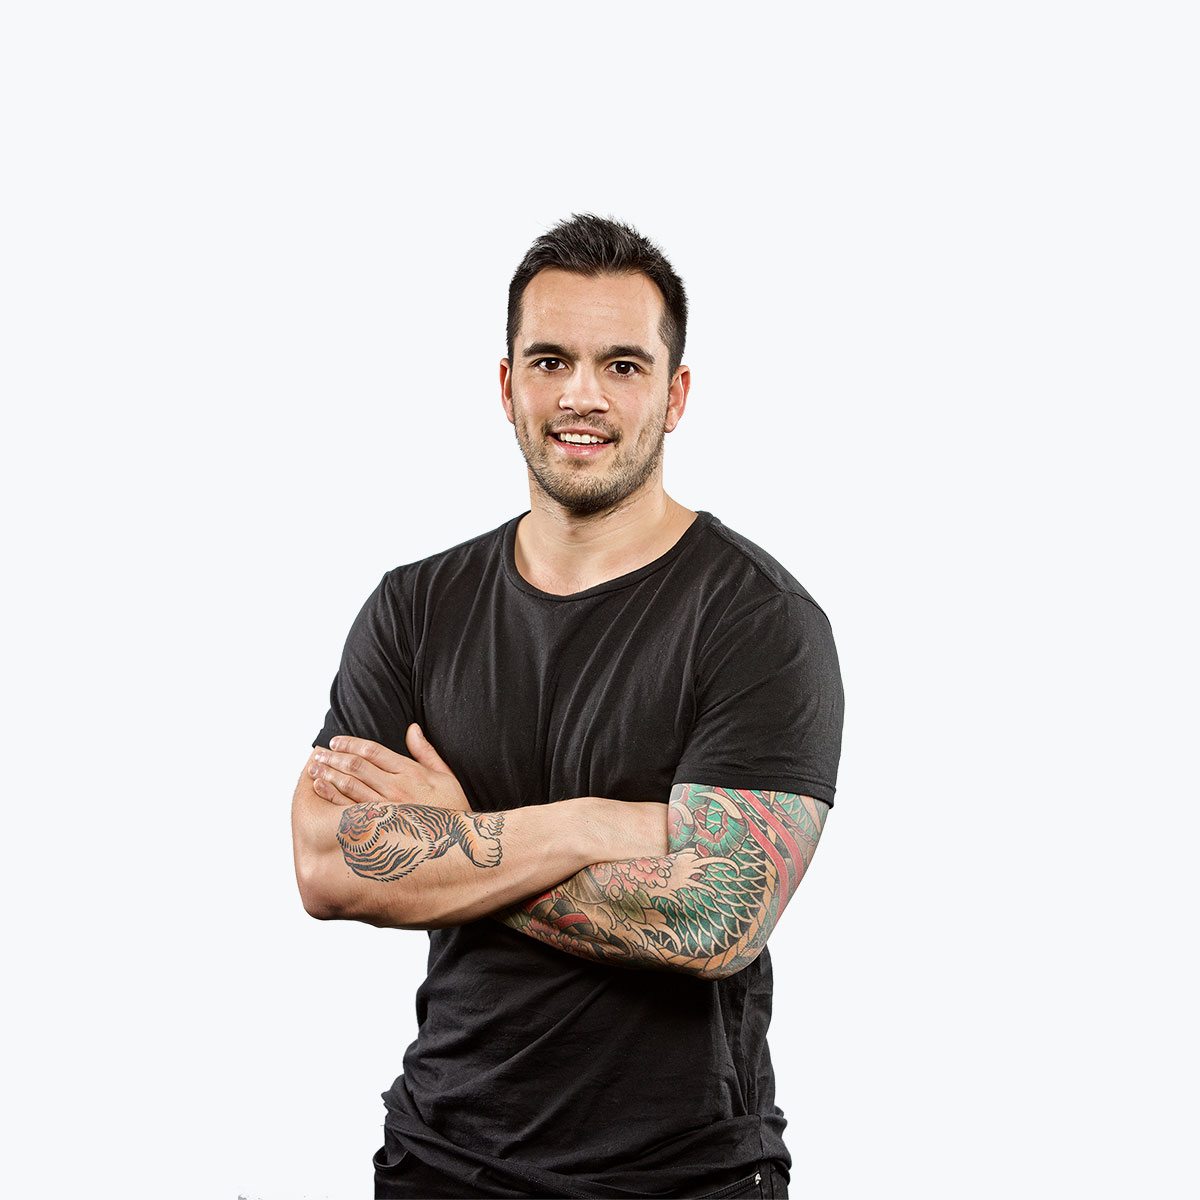
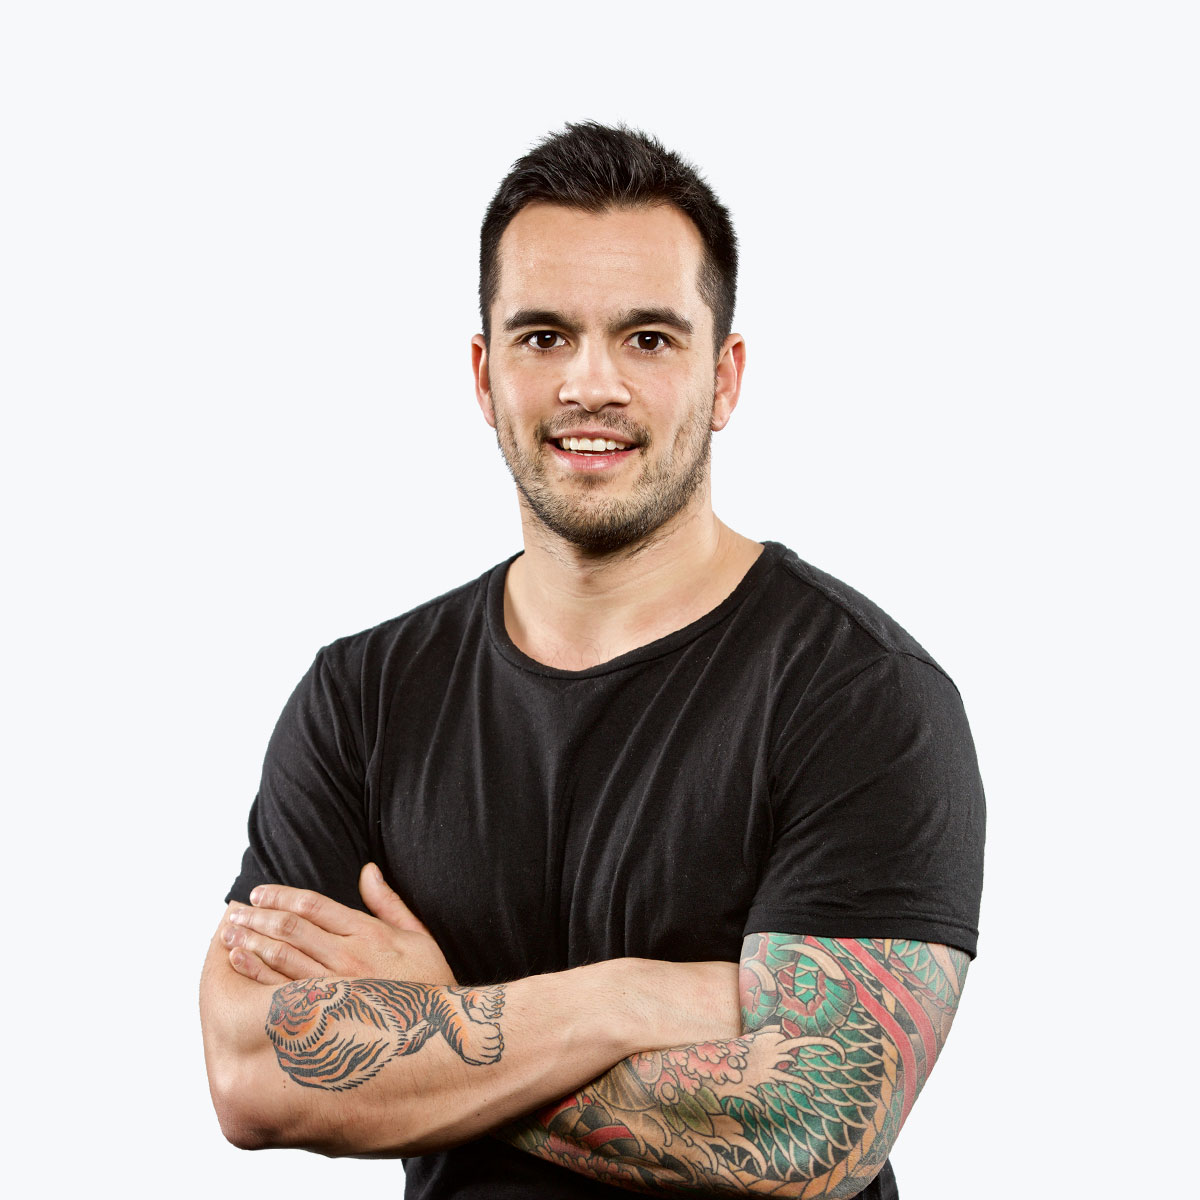
Automated commit at 2017-07-10 12:18:34 UTC by middleman-deploy 1.0.0

diff --git a/stylesheets/all.css b/stylesheets/all.css
@@ -20,10 +20,13 @@
 
 /* line 28, /Users/wernah/sites/wernahdotcom/source/stylesheets/all.css.scss */
 .dan {
-  float: right;
-  width: 25%;
-  height: 25%;
+  margin-bottom: 60px;
+  width: 100%;
   border-radius: 100%; }
+  @media (min-width: 600px) {
+    /* line 28, /Users/wernah/sites/wernahdotcom/source/stylesheets/all.css.scss */
+    .dan {
+      width: 30%; } }
 
 /* This stylesheet generated by Transfonter (https://transfonter.org) on July 9, 2017 9:25 AM */
 @font-face {
@@ -38,16 +41,16 @@
   src: url("Calibre-Medium.eot?#iefix") format("embedded-opentype"), url("Calibre-Medium.woff") format("woff"), url("Calibre-Medium.ttf") format("truetype");
   font-weight: 500;
   font-style: normal; }
-/* line 59, /Users/wernah/sites/wernahdotcom/source/stylesheets/all.css.scss */
+/* line 64, /Users/wernah/sites/wernahdotcom/source/stylesheets/all.css.scss */
 a:link, a:visited {
   color: #000;
   text-decoration: none;
   border-bottom: 1px rgba(0, 0, 0, 0.4) dotted; }
-  /* line 61, /Users/wernah/sites/wernahdotcom/source/stylesheets/all.css.scss */
+  /* line 66, /Users/wernah/sites/wernahdotcom/source/stylesheets/all.css.scss */
   a:link:hover, a:visited:hover {
     color: rgba(0, 0, 0, 0.5); }
 
-/* line 68, /Users/wernah/sites/wernahdotcom/source/stylesheets/all.css.scss */
+/* line 73, /Users/wernah/sites/wernahdotcom/source/stylesheets/all.css.scss */
 body {
   box-sizing: border-box;
   display: flex;
@@ -60,19 +63,19 @@ body {
   -webkit-font-smoothing: antialiased;
   min-height: 100vh; }
 
-/* line 84, /Users/wernah/sites/wernahdotcom/source/stylesheets/all.css.scss */
+/* line 89, /Users/wernah/sites/wernahdotcom/source/stylesheets/all.css.scss */
 h1 {
   color: #000;
   font-weight: 500;
-  font-size: 26px;
+  font-size: 36px;
   margin: 0;
   letter-spacing: -0.02em; }
   @media (min-width: 600px) {
-    /* line 84, /Users/wernah/sites/wernahdotcom/source/stylesheets/all.css.scss */
+    /* line 89, /Users/wernah/sites/wernahdotcom/source/stylesheets/all.css.scss */
     h1 {
-      font-size: 36px; } }
+      font-size: 46px; } }
 
-/* line 94, /Users/wernah/sites/wernahdotcom/source/stylesheets/all.css.scss */
+/* line 99, /Users/wernah/sites/wernahdotcom/source/stylesheets/all.css.scss */
 h3 {
   margin: 30px 0 10px;
   font-size: 12px;
@@ -80,81 +83,77 @@ h3 {
   text-transform: uppercase;
   letter-spacing: -0.02em; }
 
-/* line 101, /Users/wernah/sites/wernahdotcom/source/stylesheets/all.css.scss */
-.twitter-follow-button {
-  margin-top: 30px; }
-
-/* line 104, /Users/wernah/sites/wernahdotcom/source/stylesheets/all.css.scss */
+/* line 109, /Users/wernah/sites/wernahdotcom/source/stylesheets/all.css.scss */
 ul {
   list-style: none;
   padding: 0; }
 
-/* line 111, /Users/wernah/sites/wernahdotcom/source/stylesheets/all.css.scss */
+/* line 116, /Users/wernah/sites/wernahdotcom/source/stylesheets/all.css.scss */
 .overall li {
   font-size: 20px;
   line-height: 1.5; }
-  /* line 114, /Users/wernah/sites/wernahdotcom/source/stylesheets/all.css.scss */
+  /* line 119, /Users/wernah/sites/wernahdotcom/source/stylesheets/all.css.scss */
   .overall li:before {
     content: "• ";
     font-size: 14px;
     padding-right: 10px;
     position: relative;
     top: -2px; }
-  /* line 129, /Users/wernah/sites/wernahdotcom/source/stylesheets/all.css.scss */
+  /* line 134, /Users/wernah/sites/wernahdotcom/source/stylesheets/all.css.scss */
   .overall li#ferocia:before {
     color: #6c11a7; }
-  /* line 129, /Users/wernah/sites/wernahdotcom/source/stylesheets/all.css.scss */
+  /* line 134, /Users/wernah/sites/wernahdotcom/source/stylesheets/all.css.scss */
   .overall li#ferocia a:hover {
     color: #6c11a7;
     border-color: rgba(108, 17, 167, 0.5); }
-  /* line 130, /Users/wernah/sites/wernahdotcom/source/stylesheets/all.css.scss */
+  /* line 135, /Users/wernah/sites/wernahdotcom/source/stylesheets/all.css.scss */
   .overall li#slothlete:before {
     color: #777; }
-  /* line 130, /Users/wernah/sites/wernahdotcom/source/stylesheets/all.css.scss */
+  /* line 135, /Users/wernah/sites/wernahdotcom/source/stylesheets/all.css.scss */
   .overall li#slothlete a:hover {
     color: #777;
     border-color: rgba(119, 119, 119, 0.5); }
-  /* line 131, /Users/wernah/sites/wernahdotcom/source/stylesheets/all.css.scss */
+  /* line 136, /Users/wernah/sites/wernahdotcom/source/stylesheets/all.css.scss */
   .overall li#cultureamp:before {
     color: #ee3448; }
-  /* line 131, /Users/wernah/sites/wernahdotcom/source/stylesheets/all.css.scss */
+  /* line 136, /Users/wernah/sites/wernahdotcom/source/stylesheets/all.css.scss */
   .overall li#cultureamp a:hover {
     color: #ee3448;
     border-color: rgba(238, 52, 72, 0.5); }
-  /* line 132, /Users/wernah/sites/wernahdotcom/source/stylesheets/all.css.scss */
+  /* line 137, /Users/wernah/sites/wernahdotcom/source/stylesheets/all.css.scss */
   .overall li#volantio:before {
     color: #6b3692; }
-  /* line 132, /Users/wernah/sites/wernahdotcom/source/stylesheets/all.css.scss */
+  /* line 137, /Users/wernah/sites/wernahdotcom/source/stylesheets/all.css.scss */
   .overall li#volantio a:hover {
     color: #6b3692;
     border-color: rgba(107, 54, 146, 0.5); }
-  /* line 133, /Users/wernah/sites/wernahdotcom/source/stylesheets/all.css.scss */
+  /* line 138, /Users/wernah/sites/wernahdotcom/source/stylesheets/all.css.scss */
   .overall li#adioso:before {
     color: #ff7640; }
-  /* line 133, /Users/wernah/sites/wernahdotcom/source/stylesheets/all.css.scss */
+  /* line 138, /Users/wernah/sites/wernahdotcom/source/stylesheets/all.css.scss */
   .overall li#adioso a:hover {
     color: #ff7640;
     border-color: rgba(255, 118, 64, 0.5); }
-  /* line 134, /Users/wernah/sites/wernahdotcom/source/stylesheets/all.css.scss */
+  /* line 139, /Users/wernah/sites/wernahdotcom/source/stylesheets/all.css.scss */
   .overall li#peacock:before {
     color: #00e1d2; }
-  /* line 134, /Users/wernah/sites/wernahdotcom/source/stylesheets/all.css.scss */
+  /* line 139, /Users/wernah/sites/wernahdotcom/source/stylesheets/all.css.scss */
   .overall li#peacock a:hover {
     color: #00e1d2;
     border-color: rgba(0, 225, 210, 0.5); }
 
-/* line 138, /Users/wernah/sites/wernahdotcom/source/stylesheets/all.css.scss */
+/* line 143, /Users/wernah/sites/wernahdotcom/source/stylesheets/all.css.scss */
 .links {
   margin-top: 40px; }
-  /* line 141, /Users/wernah/sites/wernahdotcom/source/stylesheets/all.css.scss */
+  /* line 146, /Users/wernah/sites/wernahdotcom/source/stylesheets/all.css.scss */
   .links li {
     display: inline-block;
     padding: 0 3px; }
-    /* line 144, /Users/wernah/sites/wernahdotcom/source/stylesheets/all.css.scss */
+    /* line 149, /Users/wernah/sites/wernahdotcom/source/stylesheets/all.css.scss */
     .links li a {
       font-size: 14px;
       color: black; }
-      /* line 148, /Users/wernah/sites/wernahdotcom/source/stylesheets/all.css.scss */
+      /* line 153, /Users/wernah/sites/wernahdotcom/source/stylesheets/all.css.scss */
       .links li a:hover {
         color: rgba(0, 0, 0, 0.4); }
 

diff --git a/index.html b/index.html
@@ -16,13 +16,14 @@
 
   <body class="index">
     <div class='container'>
+<img class='dan' src='/images/dan.jpg'>
 <h1>Daniel Wearne</h1>
 <p class='intro'>
-I’m a visual and product designer based in Melbourne and have been working in the tech startup space for 8 years. Currently trying to reboot Australian banking with a <a href="http://ferocia.com.au/team/index.html">very talented team</a>.
+I’m a visual and product designer based in Melbourne. I've been working in the tech startup space for 8 years. Currently trying to reboot Australian banking with a <a href="http://ferocia.com.au/team/index.html">very talented team</a>.
 <br>
-<a class='twitter-follow-button' data-show-count='false' href='https://twitter.com/wernah'>Follow @wernah</a>
-<script async='' charset='utf-8' src='//platform.twitter.com/widgets.js'></script>
 </p>
+<script async='' charset='utf-8' src='//platform.twitter.com/widgets.js'></script>
+<a class='twitter-follow-button' data-show-count='false' href='https://twitter.com/wernah'>Follow @wernah</a>
 <ul class='overall'>
 <h3>Currently</h3>
 <li id='ferocia'>
